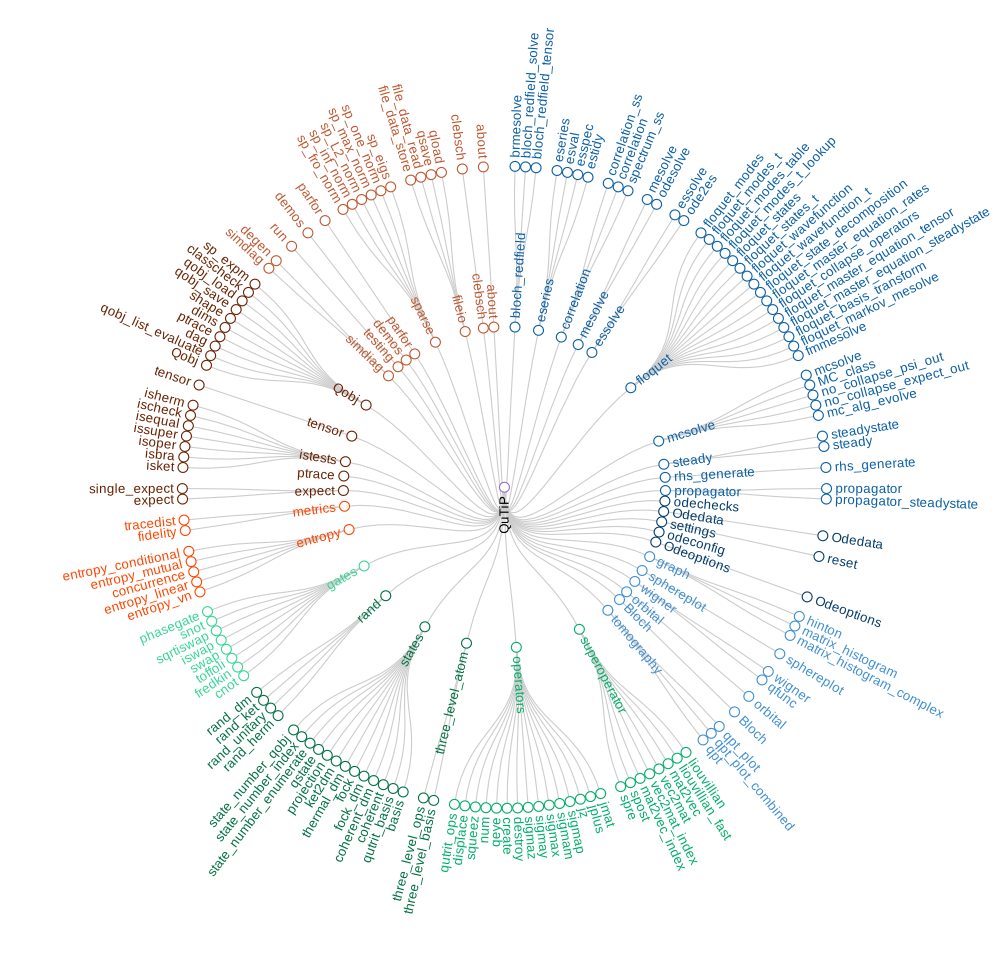
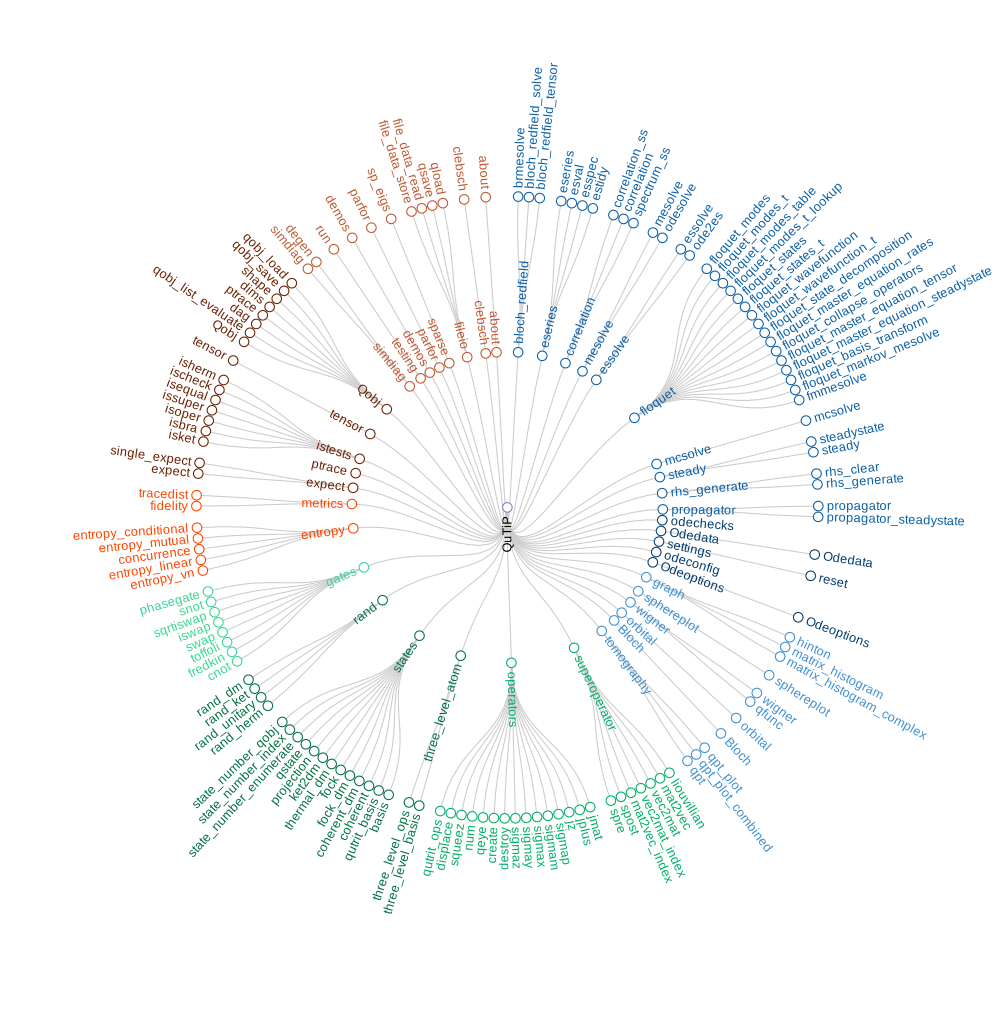
update qutip organization graph

Changed region(s): [[0.062, 0.0306, 0.992, 0.9184], [0.093, 0.3061, 0.155, 0.3367]]

diff --git a/doc/QuTiP_tree_plot/qutip-structure.py b/doc/QuTiP_tree_plot/qutip-structure.py
@@ -77,8 +77,8 @@ for root, dirs, files in os.walk(qutip_root):
 
                 module = f[:-3]
                 
-                idx   = module_cmap[module] if module in module_cmap else "black"                 
-                color = colors[idx]
+                idx   = module_cmap[module] if module in module_cmap else -1                 
+                color = colors[idx] if idx >= 0 else "black"
 
                 symbol_list = []
 
